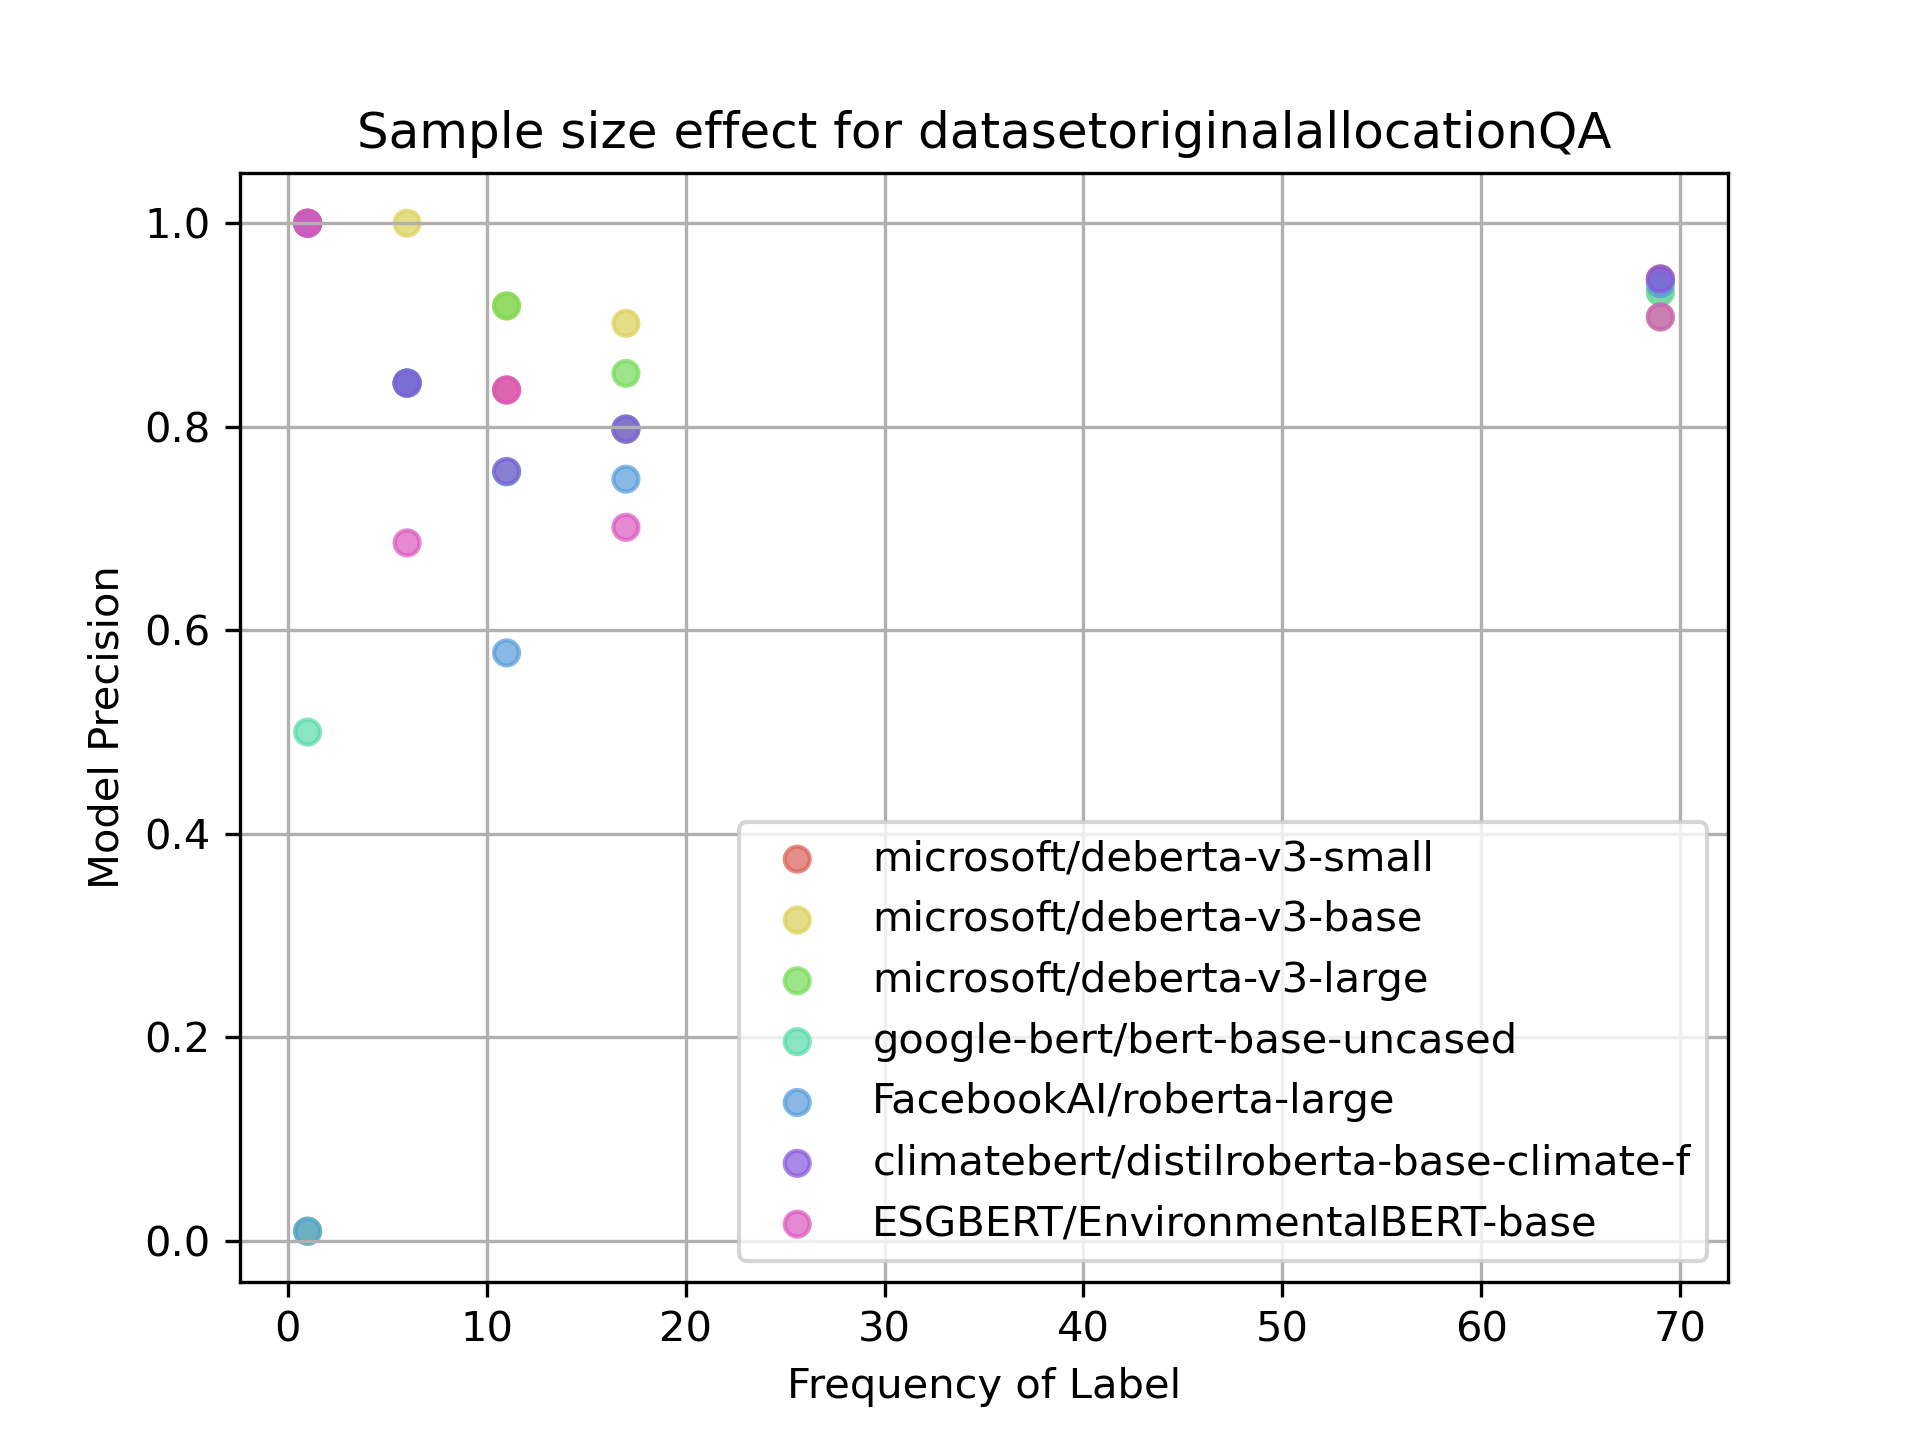
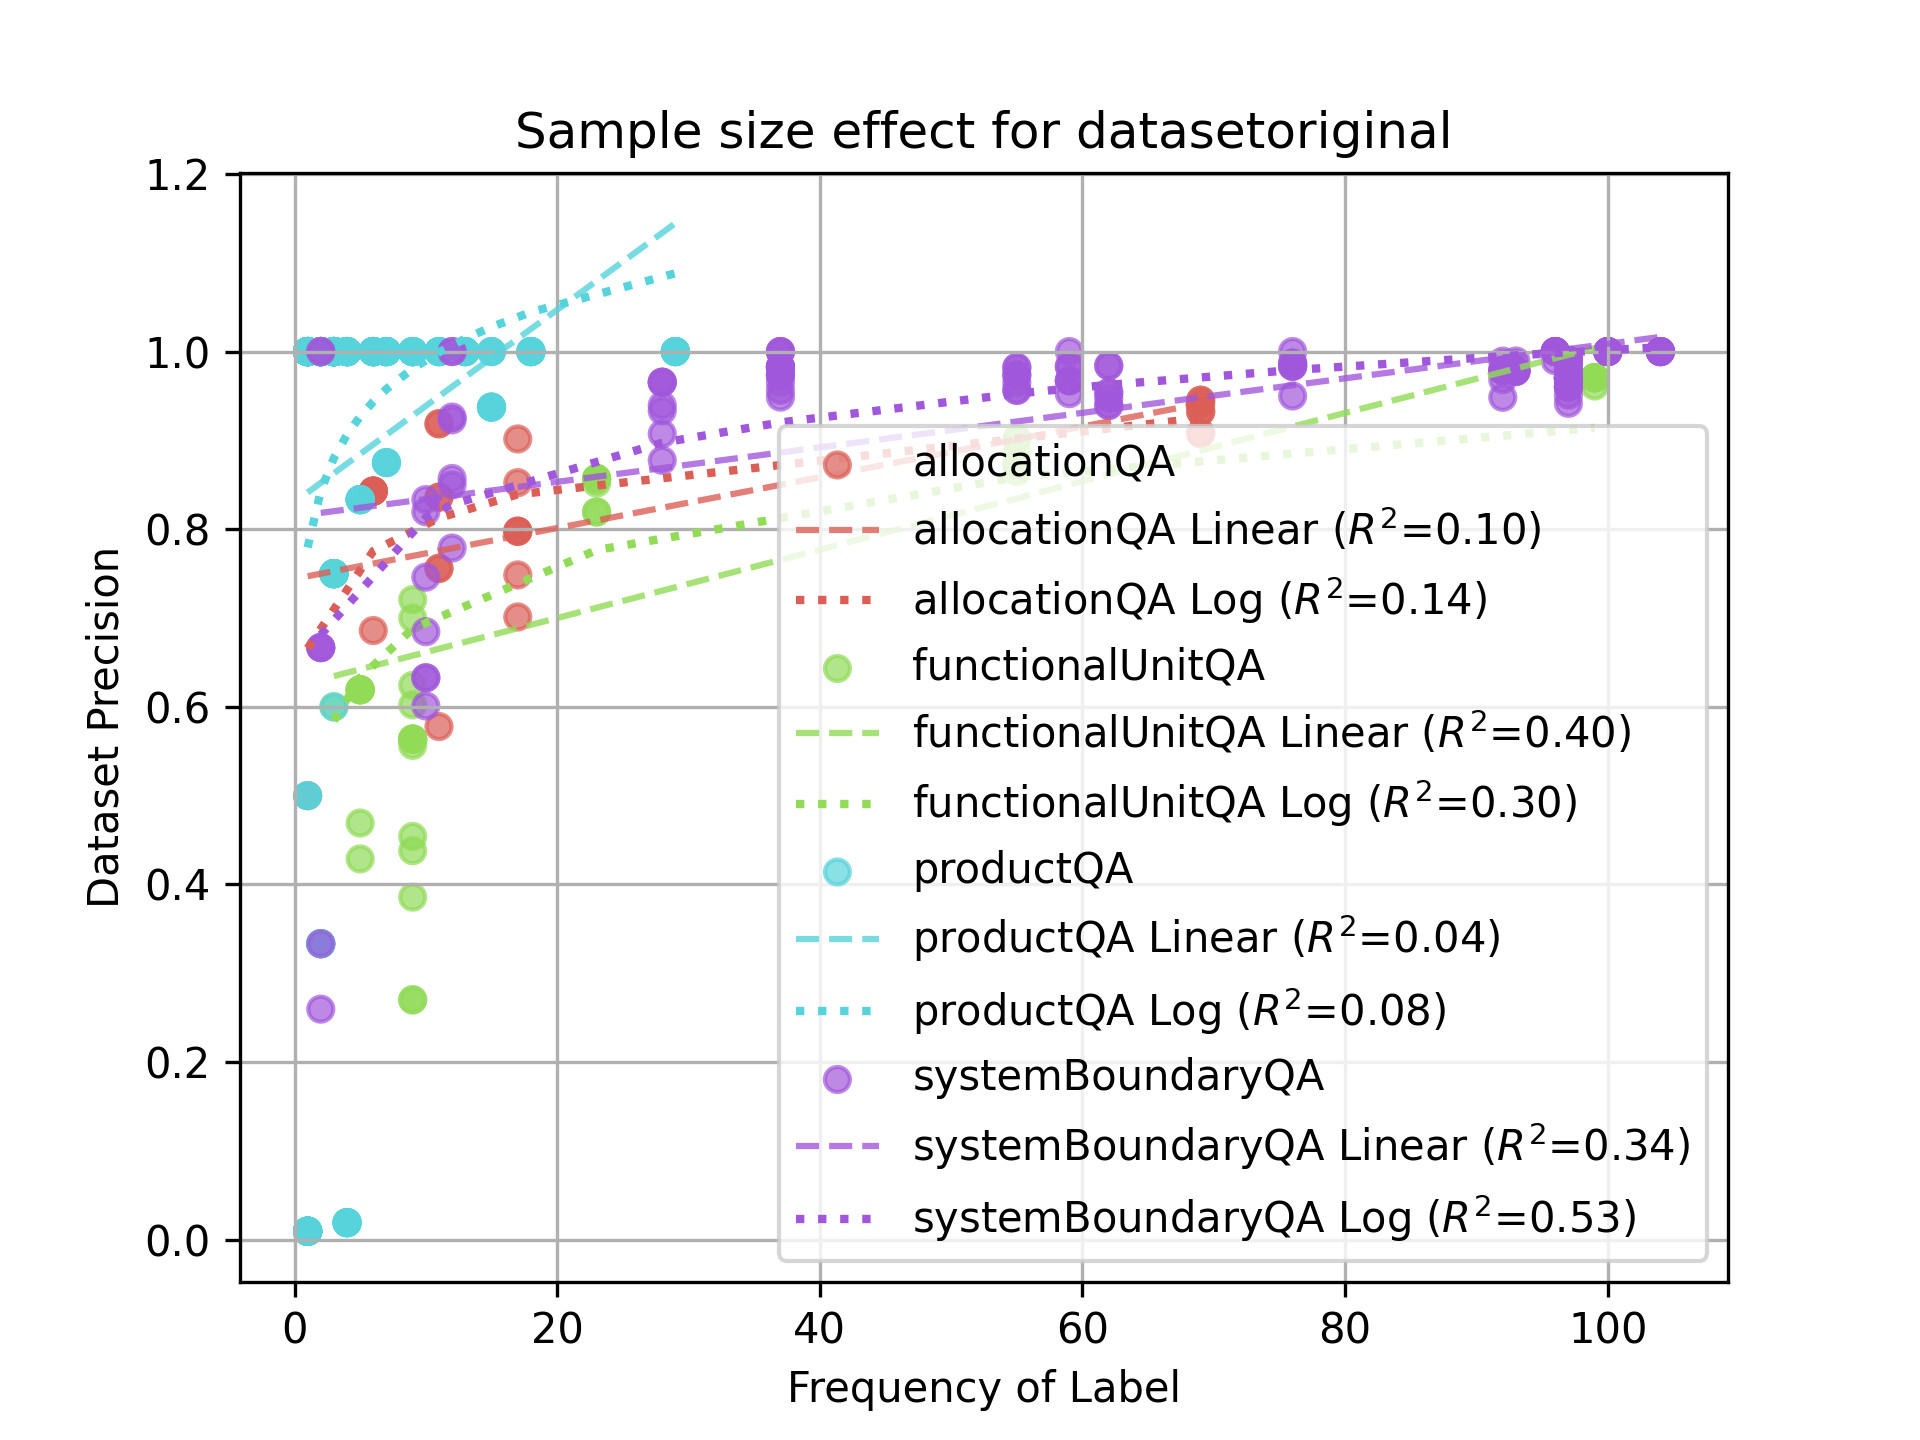
update plots for num labels in test set

diff --git a/data_analysis.py b/data_analysis.py
@@ -1,4 +1,5 @@
 import math
+import os
 from pathlib import Path
 import pandas as pd
 from collections import Counter
@@ -9,6 +10,7 @@ import seaborn as sns
 import matplotlib.cm as cm
 import matplotlib.colors
 import csv
+import numpy as np
 
 
 def main():
@@ -16,13 +18,13 @@ def main():
     # map_tables()
 
     # plot number of labels versus precision for each of the four categories
-    # label_precision()
+    label_precision()
     
     # collate errors for each dataset based on RAG
     # collect_rag_error_rates()
 
     # identify occurence of errors and the extent to which models and ground truths agree
-    inter_reviewer_alignment()
+    # inter_reviewer_alignment()
     
 
 def inter_reviewer_alignment():
@@ -282,7 +284,6 @@ def label_precision():
         # Split the 10% test + valid in half test, half valid
         test_valid = train_testvalid['test'].train_test_split(test_size=0.5, seed=42)
         test = test_valid['test']
-        print(str(dataset_dataset_category), len(test))
         test_labels = test["labels"] # get the test labels
         
         # flatten and count the occurence of labels
@@ -310,25 +311,41 @@ def label_precision():
 
     # plot scatterplot
     for i in [original, recalculated, rag_original, rag_recalculated]:
-        for j in i["dataset"].unique():
-            fig, ax = plt.subplots()
-            df = i[i["dataset"] == j].copy(deep=True)
-            df = df.dropna()
-            df['precision'] = df['precision'].astype(float) # handle nan
-            df['count'] = df['count'].astype(int)
-            df = map_color(df, "model")
-            print(df)
-            for model in df["model"].unique():
-                plotting_df = df[df["model"] == model]
-                ax.scatter(x =plotting_df['count'], y=plotting_df['precision'], c=plotting_df["color"], label=model, alpha=0.7)
-            plt.xlabel('Frequency of Label')
-            plt.ylabel('Model Precision')
-            plt.title('Sample size effect for dataset' + str(df["category"].unique()[0]) + str(j))
-            plt.legend()
-            plt.grid(True)
-            plt.savefig("llm-goal-scope/data/qa_dataset/results/" + str(df["category"].unique()[0]) + str(j)+".png", dpi=300)
-            plt.show()
-            print("dataset precision plot saved")
+        fig, ax = plt.subplots()
+        df = i.dropna().copy(deep=True)
+        df['precision'] = df['precision'].astype(float) # handle nan
+        df['count'] = df['count'].astype(int)
+        df = map_color(df, "dataset")
+        for dataset in df["dataset"].unique():
+            plotting_df = df[df["dataset"] == dataset]
+            x = plotting_df['count']
+            y = plotting_df['precision']
+            # plot scatter plot
+            ax.scatter(x, y, c=plotting_df["color"], label=dataset, alpha=0.7)
+
+            # calculate trend lines
+            sort_idx = np.argsort(x)
+            x_sorted = x.iloc[sort_idx]
+            y_sorted = y.iloc[sort_idx]
+
+            # --- LINEAR FIT & R2 ---
+            linear_coefs = np.polyfit(x, y, 1)
+            linear_fit = np.poly1d(linear_coefs)
+            # Calculate R2 using all points
+            r2_lin = calculate_r2(y, linear_fit(x))
+
+            ax.plot(x_sorted, linear_fit(x_sorted), color=plotting_df["color"].iloc[0],
+                    linestyle='--', alpha=0.8,
+                    label=f'{dataset} Linear ($R^2$={r2_lin:.2f})')
+
+        plt.xlabel('Frequency of Label')
+        plt.ylabel('Dataset Precision')
+        plt.title('Sample size effect for dataset' + str(df["category"].unique()[0]))
+        plt.legend()
+        plt.grid(True)
+        plt.savefig("./data/qa_dataset/results/" + str(df["category"].unique()[0])+ " " + str(df["dataset"].unique()[0])+".png", dpi=300)
+        plt.show()
+        print("dataset precision plot saved")
 
     # save data
     original.to_csv("./data/qa_dataset/results/labels_original.csv")
@@ -341,6 +358,14 @@ def map_color(df, col):
     color_d = dict(zip(df[col].unique(), sns.color_palette("hls", df[col].nunique())))
     df['color'] = df[col].map(color_d)
     return df
+
+
+def calculate_r2(y, y_pred):
+    """Helper function to calculate R-squared"""
+    residuals = y - y_pred
+    ss_res = np.sum(residuals**2)
+    ss_tot = np.sum((y - np.mean(y))**2)
+    return 1 - (ss_res / ss_tot)
 
 
 def map_tables():